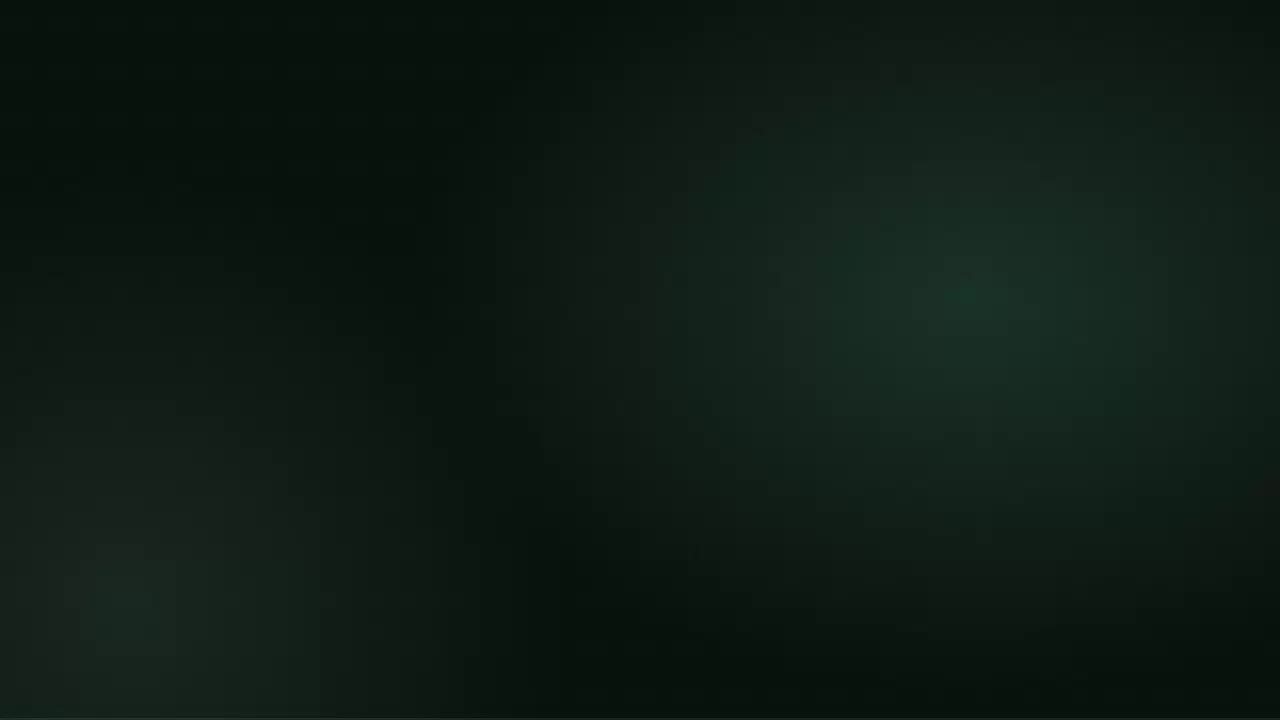
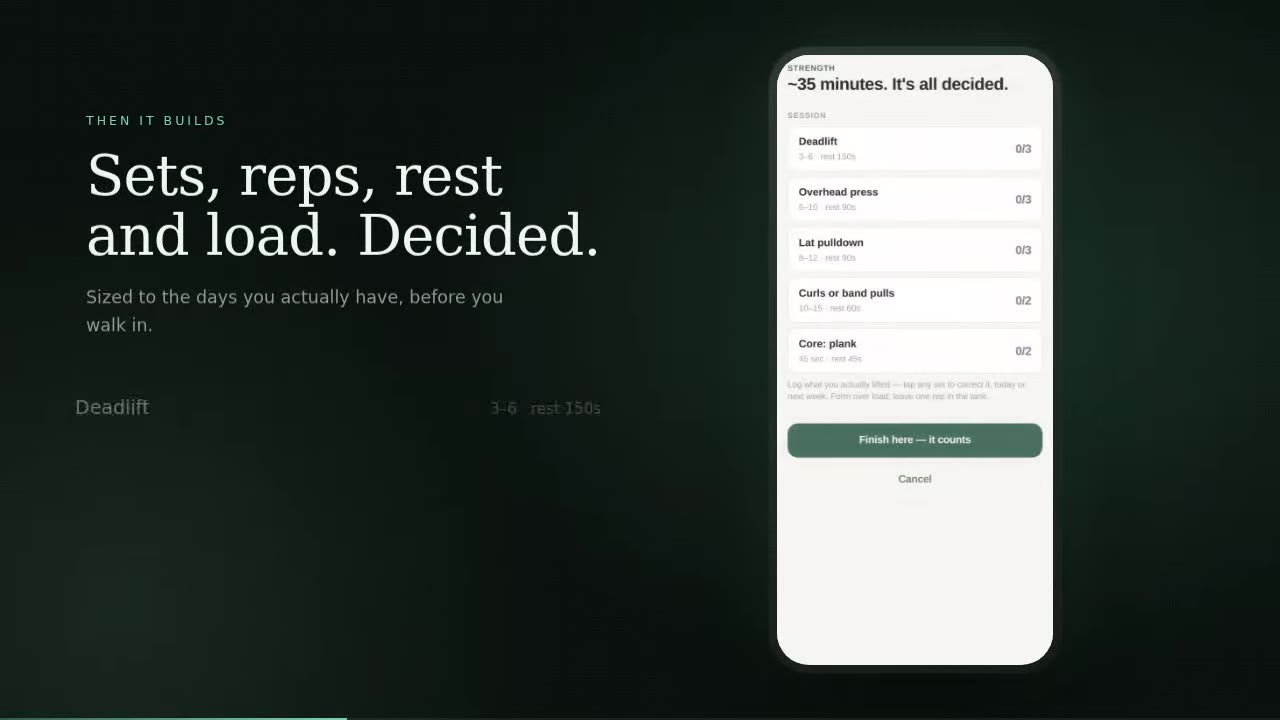
web: fix what the review found, including a poster nobody could see
An independent pass over this branch turned up nine things. The first would
have shipped a visibly broken section.

The 45s poster was grabbed at 0.5s, inside the opening fade — a near-black
frame, max luminance 49 of 255. The film section would have rendered as an
empty black box with alt text describing a card the image did not contain. The
poster is now taken at 12.5s, where the line and a populated session screen are
both visible, and a guardrail rejects a poster that compresses to the size only
an almost-blank frame does.

The section also claimed more than was checked. "Not a mockup. The app,
running." asserts the footage is a capture; what I actually verified is that
the sentences in it are emitted by shipped code, which is a different and
smaller claim. The heading is now "Nothing here was written for the camera",
and a truth boundary states that screens appear in a device frame — matching
how the rest of the page handles this. Provenance of the capture itself is
worth confirming with whoever cut the film.

The deploy gate had drifted from the guardrails: the workflow named three test
files while the branch had five, so the library-claims protection this branch
advertises would not have run before a deploy. CI and contributors now run the
same `npm test`, and adding a guardrail means adding it to one script. The
Windows-hanging ui-components test moves behind `npm run test:ui` so that one
command is honest on every platform.
[…]

diff --git a/web/app/page.tsx b/web/app/page.tsx
@@ -305,6 +305,13 @@ function BehaviourLoop() {
   );
 }
 
+const libraryStats = [
+  { figure: "177", label: "practices in the library", note: "Every one graded for evidence and credited to the public work behind it." },
+  { figure: "73", label: "graded A or B", note: "The other 104 are C, D or E. The app shows you which, on every single one." },
+  { figure: "188", label: "researchers and practitioners credited", note: "Attribution for public teaching. Never endorsement." },
+  { figure: "145", label: "carry an explicit safety line", note: "Written in plain words, shown before you add anything to your week." },
+];
+
 /**
  * The film, played on request rather than on arrival.
  *
@@ -315,12 +322,6 @@ function BehaviourLoop() {
  * `preload="none"` matters as much as the click gate — without it the browser
  * starts fetching the video on page load whether or not anyone watches it.
  */
-const libraryStats = [
-  { figure: "177", label: "practices in the library", note: "Every one graded for evidence and credited to the public work behind it." },
-  { figure: "73", label: "graded A or B", note: "The other 104 are C, D or E. The app shows you which, on every single one." },
-  { figure: "188", label: "researchers and practitioners credited", note: "Attribution for public teaching. Never endorsement." },
-  { figure: "145", label: "carry an explicit safety line", note: "Written in plain words, shown before you add anything to your week." },
-];
 
 function Film() {
   const [playing, setPlaying] = useState(false);
@@ -347,7 +348,7 @@ function Film() {
         <>
           <Image
             src="/video/intentnorth-coaching-45s-poster.jpg"
-            alt="The opening frame of the film: a coach asks before they prescribe"
+            alt="A frame from the film: the line &quot;Sets, reps, rest and load. Decided.&quot; beside a session screen listing the day's lifts"
             width={1280}
             height={720}
             unoptimized
@@ -420,11 +421,12 @@ export default function Home() {
 
       <section className="film-section" id="film"><div className="section-shell">
         <div className="film-heading">
-          <div><p className="section-kicker light">THE PRODUCT, RECORDED</p><h2>Not a mockup.<br />The app, running.</h2></div>
-          <p>Every screen in this film is the real application. The sentence it turns on&mdash;&ldquo;your own recovery numbers are down this morning&rdquo;&mdash;is produced by the shipped code, not written for the camera.</p>
+          <div><p className="section-kicker light">THE PRODUCT, ON SCREEN</p><h2>Nothing here was<br />written for the camera.</h2></div>
+          <p>The sentences on these screens are the ones the app produces. &ldquo;Your own recovery numbers are down this morning&mdash;main work stays, accessories rest today&rdquo; is a line the training code emits when your own recovery data drops, not a caption composed for a film.</p>
         </div>
         <Film />
-        <p className="film-caption">Recorded from the running app. Named educators appear as attribution for practices distilled from their public teaching; it implies no endorsement of IntentNorth.</p>
+        <div className="causality-proof film-proof"><ShieldCheck /><p><strong>Truth boundary:</strong> screens are shown inside a device frame for presentation. The copy in them is the shipped application&rsquo;s own output. Broader cross-domain arbitration remains the direction, not staged proof.</p></div>
+        <p className="film-caption">Named educators appear as attribution for practices distilled from their public teaching; it implies no endorsement of IntentNorth.</p>
       </div></section>
 
       <section className="behaviour-section" id="change"><div className="section-shell">

diff --git a/web/README.md b/web/README.md
@@ -29,8 +29,17 @@ Contributors want plain `npm ci`.
 
 ```bash
 npm run lint
-npm test        # builds, then runs every guardrail
+npm test        # builds, then runs every product-truth guardrail
 ```
+
+`npm test` runs exactly the set the deploy workflow gates on — the same command
+in both places, so a guardrail cannot pass locally and be skipped on the way
+out. Adding a guardrail means adding it to that one script.
+
+`npm run test:ui` is separate and optional. It covers a vendored component
+rather than a product claim, and is the test recorded below as hanging on
+Windows, so it is kept out of the command contributors and CI are expected to
+run.
 
 `tests/rendered-html.test.mjs` asserts the positioning line, the single CTA
 vocabulary, the free/premium disclosure, the hardest-moment principle, the
@@ -42,12 +51,16 @@ regression, not a flaky test.
 than serving a second copy of the site, and that localhost and the workers.dev
 preview URL are left alone.
 
+`tests/library-claims.test.mjs` counts the protocol library in
+`src/features/knowledge/protocols.ts` and asserts the figures on the page match
+it. Add a protocol and this fails — that is deliberate, so the copy changes in
+the same commit as the data rather than drifting into a claim nobody re-counted.
+
 `tests/ui-components.test.mjs` has been reported hanging on Windows (a Vite
 transport timeout loading `components/ui/sidebar.tsx`). It failed identically
 on an untouched checkout, so it is an environment issue rather than a
-regression. It passes on Linux and macOS; if it still hangs for you on Windows
-after the cross-platform script work, that is worth a fresh look rather than
-another workaround.
+regression, and it is now behind `npm run test:ui` rather than in the main
+command. It passes on Linux and macOS.
 
 ## Stack
 

diff --git a/web/public/video/README.md b/web/public/video/README.md
@@ -8,8 +8,8 @@ approved to appear on the site.
 
 | File | Aspect | Resolution | Length | Size |
 |---|---|---|---|---|
-| `intentnorth-coaching-45s.webm` | 16:9 | 1280×720 | 48.00s | 5.2 MB |
-| `intentnorth-coaching-45s.mp4` | 16:9 | 1280×720 | 48.00s | 3.1 MB |
+| `intentnorth-coaching-45s.webm` | 16:9 | 1280×720 | 48.00s | 2.0 MB (VP9) |
+| `intentnorth-coaching-45s.mp4` | 16:9 | 1280×720 | 48.00s | 3.25 MB (H.264) |
 | `intentnorth-coaching-16s-vertical.webm` | 9:16 | 720×1280 | 17.44s | 1.7 MB |
 | `intentnorth-coaching-16s-vertical.mp4` | 9:16 | 720×1280 | 17.44s | 1.2 MB |
 
@@ -38,8 +38,13 @@ at equivalent quality. The WebM encodes are simply inefficient.
 The H.264 fallbacks now exist, made in the website session with an ffmpeg
 binary pulled from the `imageio-ffmpeg` PyPI wheel: High profile, `yuv420p`,
 `+faststart` (moov atom verified ahead of mdat, so playback starts before the
-file finishes arriving). Serve both sources, MP4 first — it is the smaller
-file here as well as the more compatible one.
+file finishes arriving).
+
+**Serve WebM first, MP4 as the fallback.** The 45s film was later re-encoded to
+VP9 to carry the attribution caption, which brought it to 2.0 MB against the
+MP4's 3.25 MB — so the size argument now points the other way from where this
+file first put it. A browser takes the first source it can decode, so WebM
+leads and the MP4 catches Safari before 14.1 and the in-app browsers.
 
 These are transcodes of a VP8 encode, so they carry a generation of loss. If
 the source project is still to hand, re-exporting H.264 directly from the
